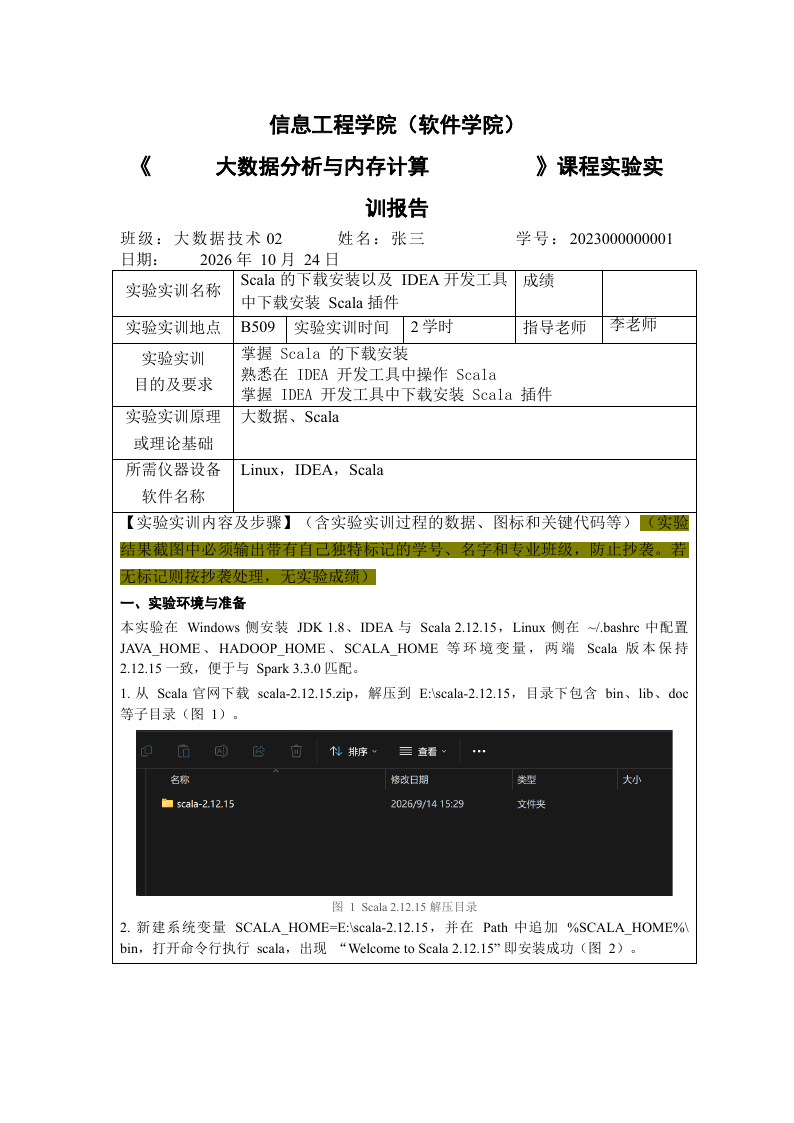
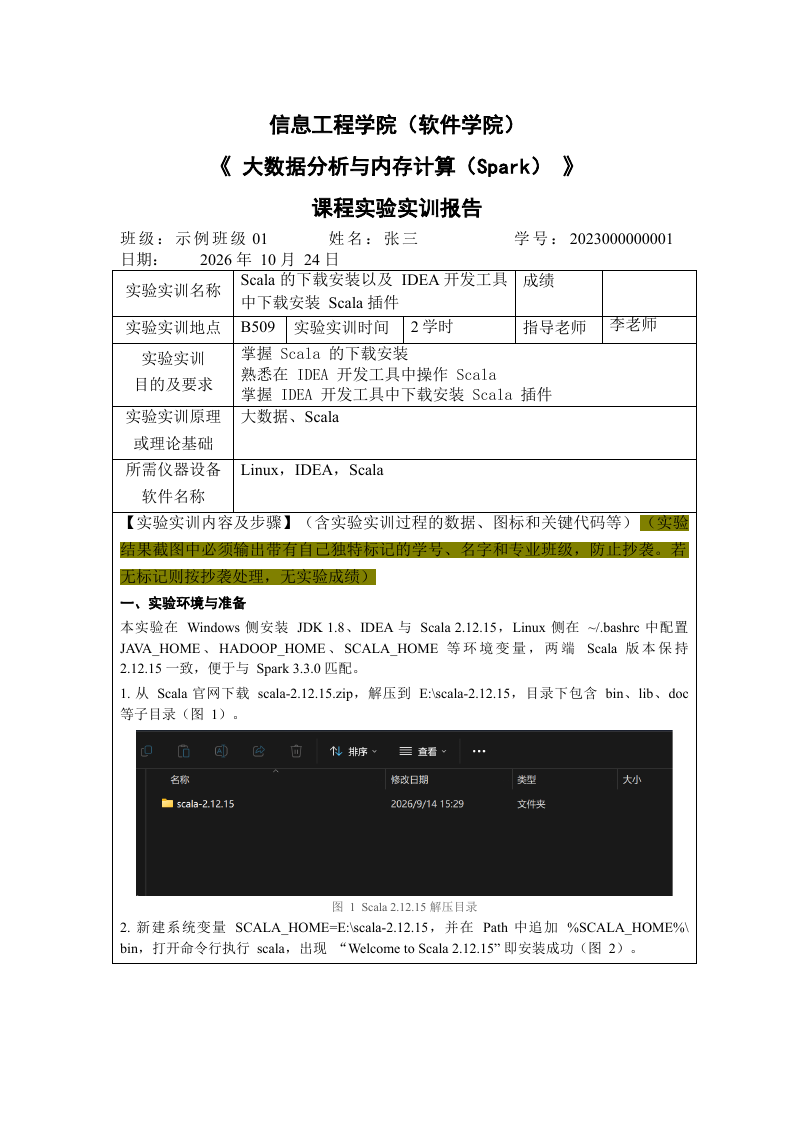
test(fixtures): 示例班级01 + （Spark）标题，并修掉长标题的断词换行
- 班级 run 拆成「示例班级」+「01」，逐 run 替换，其余 20 个 run 的空格与字体不动
- 标题加（Spark）后自动换行落在「课/程」之间，改为在「》」后插入 <w:br/>
  并收紧两侧撑宽空格，得到两行居中的自然断点
- ops.json 重新钉住新的 template.content_sha256（cdef819 -> be514a9）
- docs/preview.png、CHANGELOG[Unreleased] 同步

diff --git a/fixtures/README.md b/fixtures/README.md
@@ -4,7 +4,7 @@ Everything here is test-only, anonymised, and safe to publish.
 
 | path | what | notes |
 |---|---|---|
-| `templates/report.docx` | 2-page course report form: 7-row table, merged cells, `【…】` label cells | anonymised: the student name is `张三`, the id is `2023000000001`. The original `.doc` is **not** shipped |
+| `templates/report.docx` | 2-page course report form: 7-row table, merged cells, `【…】` label cells | anonymised: class `示例班级01`, student `张三`, id `2023000000001`. Title reads `大数据分析与内存计算（Spark）` with a manual break before `课程实验实训报告` — that is the fix for the mid-word wrap a longer title causes. The original `.doc` is **not** shipped |
 | `reporter/ops.json` | reference op list: title, teacher, date, content cell with figures, summary | `template.content_sha256` is pinned to the template above |
 | `images/fig1.png` | Windows Explorer screenshot (Scala install dir) | no watermark, unmodified full frame |
 | `images/fig2.png` | console screenshot, 2524×1136 — used to exercise width capping | no watermark |

diff --git a/CHANGELOG.md b/CHANGELOG.md
@@ -3,6 +3,17 @@
 All notable changes to this project. Format: [Keep a Changelog](https://keepachangelog.com/),
 versioning: [SemVer](https://semver.org/).
 
+## [Unreleased]
+
+### Changed
+- Fixture template: class is `示例班级01` instead of a real class code, and the
+  report title now reads `大数据分析与内存计算（Spark）`.
+- **Title wrapping:** the longer title no longer fits on one line, and Word's
+  automatic break fell between `课` and `程`. The fixture now uses an explicit
+  `<w:br/>` after `》` plus tightened padding spaces, so the two centered lines
+  break at a natural boundary. `fixtures/reporter/ops.json` was re-pinned to the
+  new `template.content_sha256`.
+
 ## [0.1.2] - 2026-10-25
 
 Installability. `0.1.0`/`0.1.1` shipped a `dsh.bundle.entry` field that the
